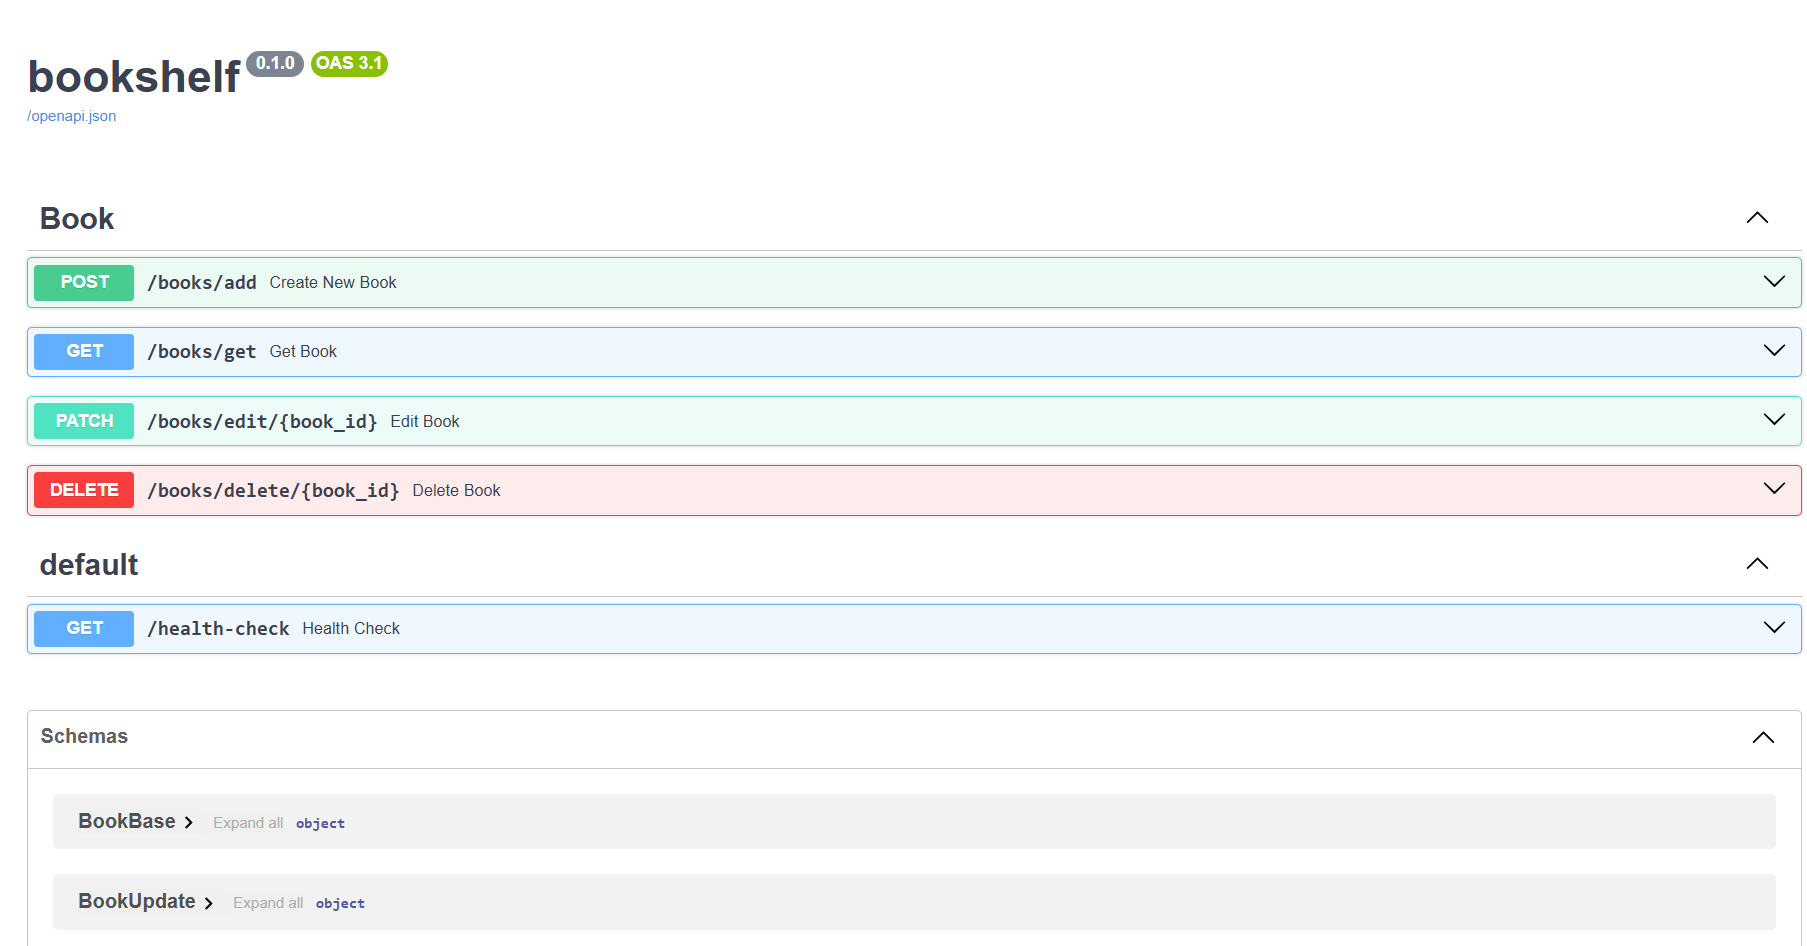
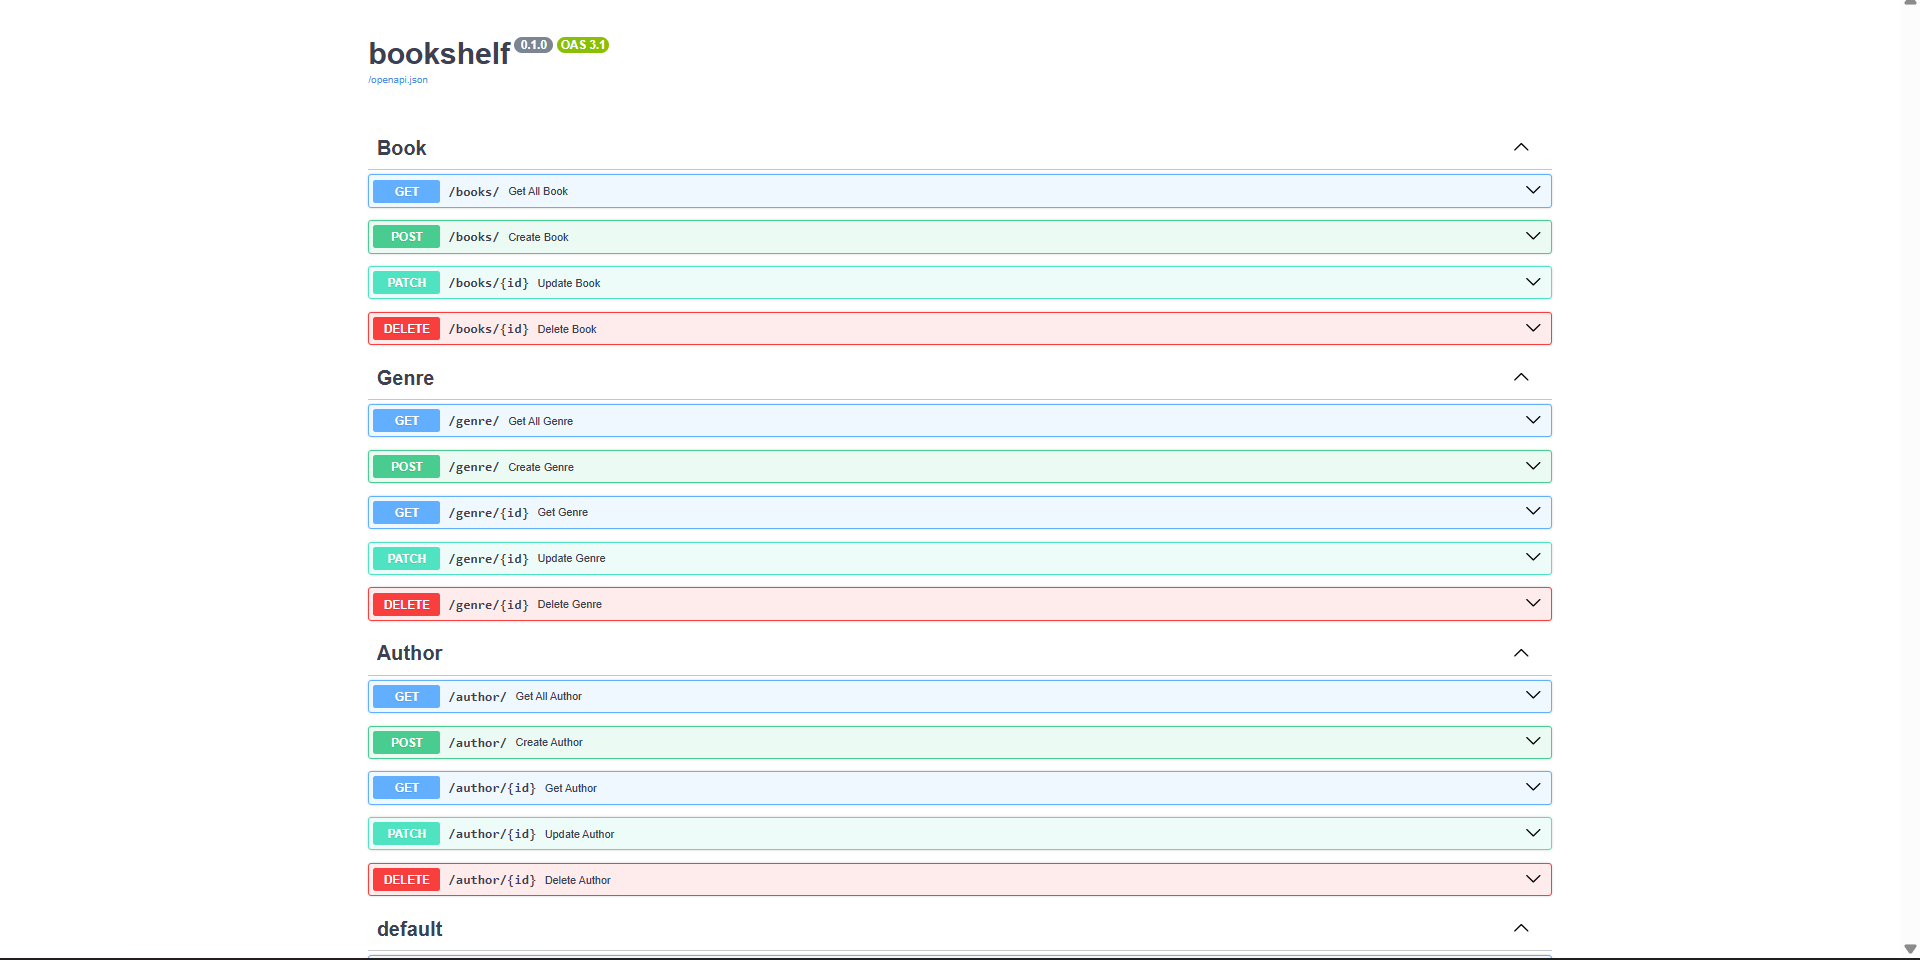
docs: Update README and it's related img

diff --git a/README.md b/README.md
@@ -1,31 +1,43 @@
 # Bookshelf Project
 
+### Overview
+
+This project's purpose is to help me manage physical book than turn it into digital record for personal usage. It can add genres, authors and books also able to search with keywords for all of it
+
+---
+
 ## Requirements
 
-- [MySQL v8.0.44 ](https://www.mysql.com/): You'll need this running locally for now. I haven't added it to the Docker Compose yet, though it's a straightforward fix if you'd rather run it there..
+- Docker
 
 ## Technology Stack and Features
 
 - ⚡ [**FastAPI**](https://fastapi.tiangolo.com) for the Python backend API.
   - 🧰 [SQLModel](https://sqlmodel.tiangolo.com) for the Python SQL database interactions (ORM).
   - 🔍 [Pydantic](https://docs.pydantic.dev), used by FastAPI, for the data validation and settings management.
-  - 💾 [MySQL](https://www.mysql.com/) as the SQL database.
 - 🚀 [React](https://react.dev) for the frontend.
   - 💃 Using TypeScript [Vite](https://vitejs.dev), and other parts of a modern frontend stack.
   - 🎨 [Tailwind CSS](https://tailwindcss.com) and [shadcn/ui](https://ui.shadcn.com) for the frontend components.
-- 🐋 [Docker Compose](https://www.docker.com) for development and production.
+  - 🌴 [Tanstack](https://tanstack.com/) for the glue and smooth ui handle.
+- 💾 [MySQL](https://www.mysql.com/) as the SQL database.
+- 🐋 [Docker](https://www.docker.com) for development and production.
 
-### Homepage - Mobile
 
-[![API docs](img/mobile.png)](https://github.com/dhaboav/bookshelf)
-
+### Credit
 The book cover is currently hardcoded, using the cover art from the web novel Reverend Insanity by Gu Zhen Ren.
 
 [![book cover](./frontend/public/cover.jpg)](https://www.webnovel.com/book/reverend-insanity_7996858406002505)
 
-### Homepage - PC
+### Homepage & Author(+Genre) - Mobile
 
-[![API docs](img/pc.png)](https://github.com/dhaboav/bookshelf)
+[![Mobile](img/mobile.png)](https://github.com/dhaboav/bookshelf)
+[![Mobile 2](img/mobile-2.png)](https://github.com/dhaboav/bookshelf)
+[![Mobile Author](img/author.png)](https://github.com/dhaboav/bookshelf)
+
+### Homepage & Genre(+Author) - PC
+
+[![PC](img/pc.png)](https://github.com/dhaboav/bookshelf)
+[![PC Genre](img/pc-2.png)](https://github.com/dhaboav/bookshelf)
 
 ### Interactive API Documentation
 